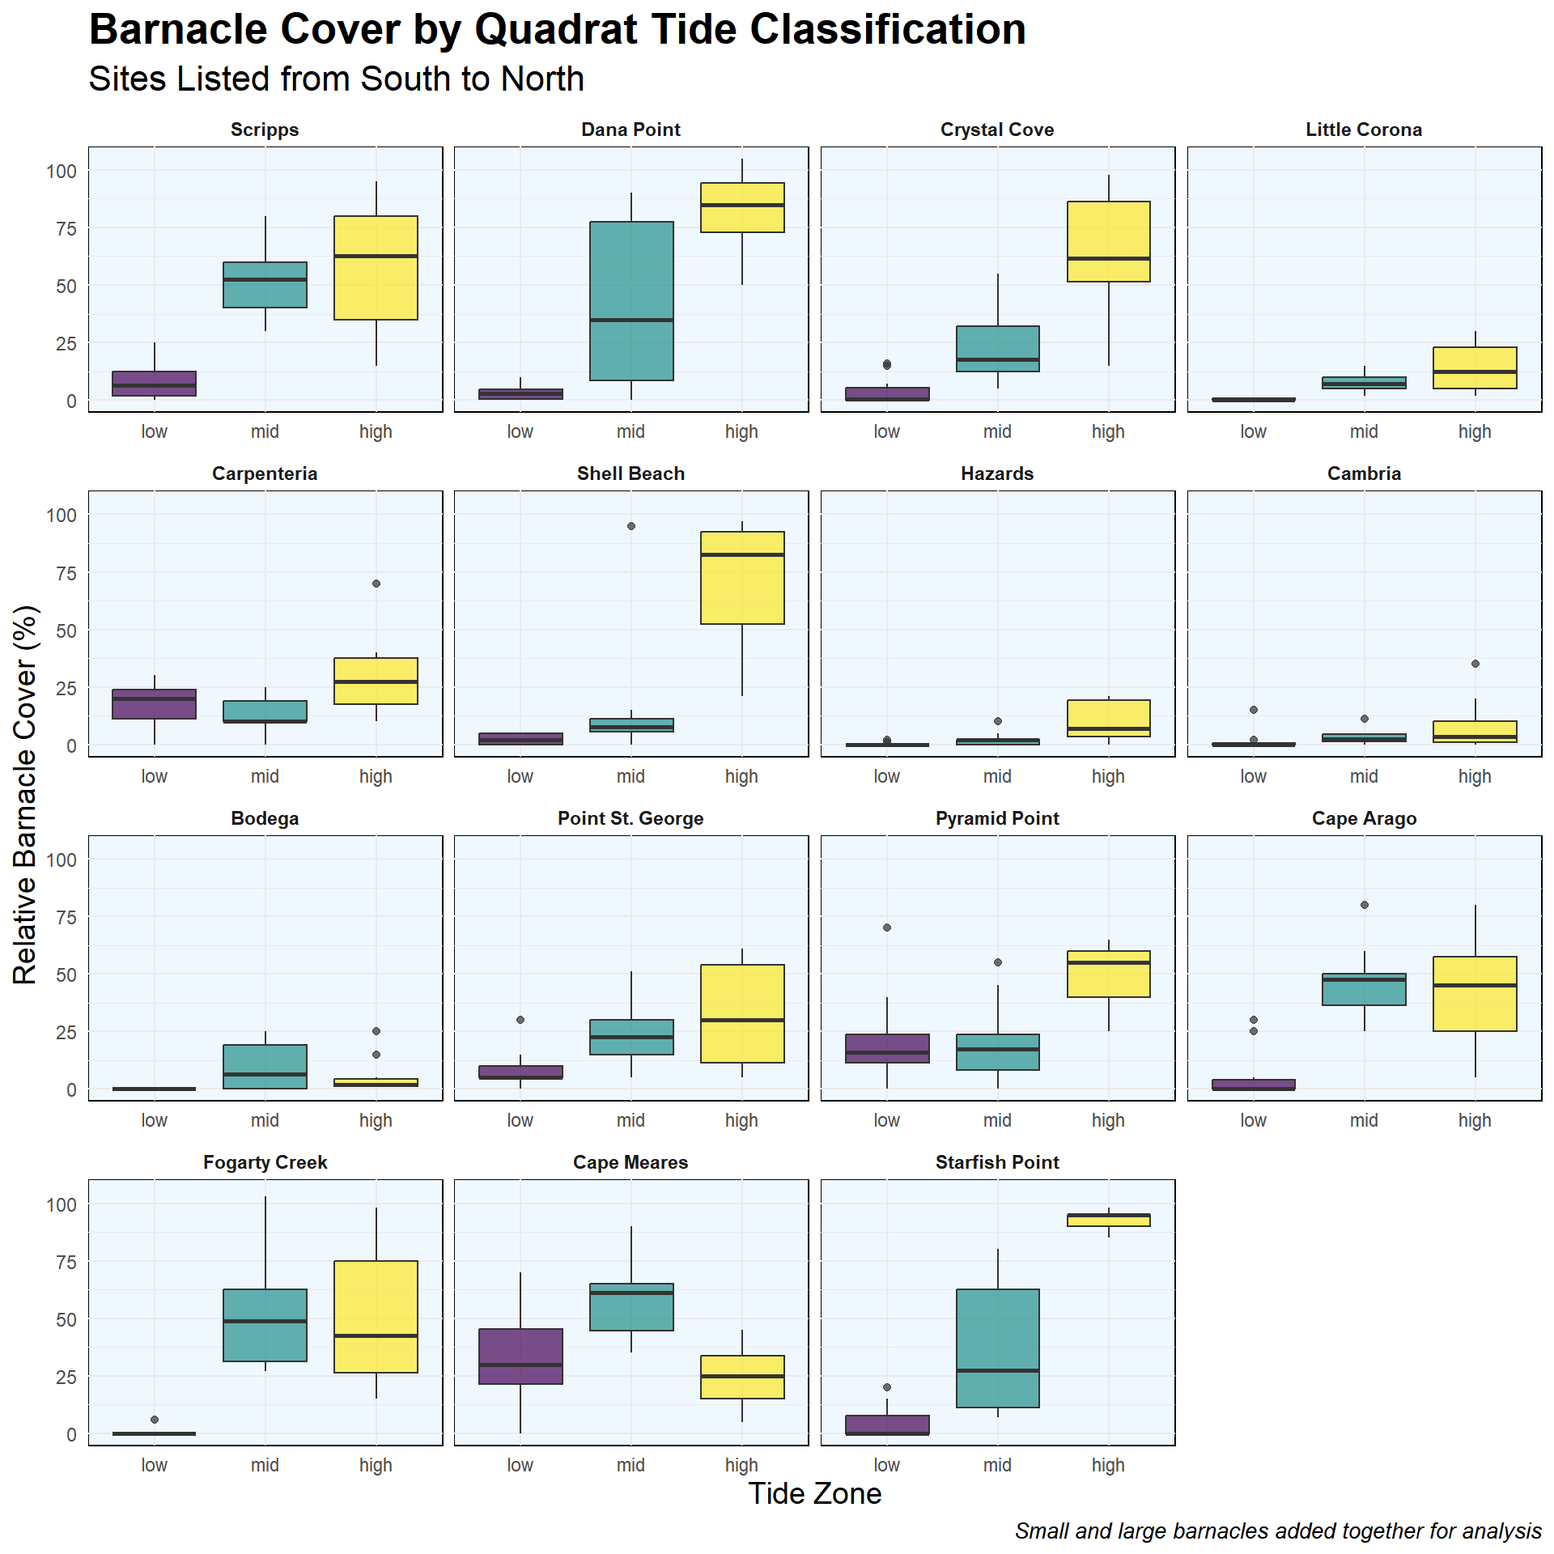
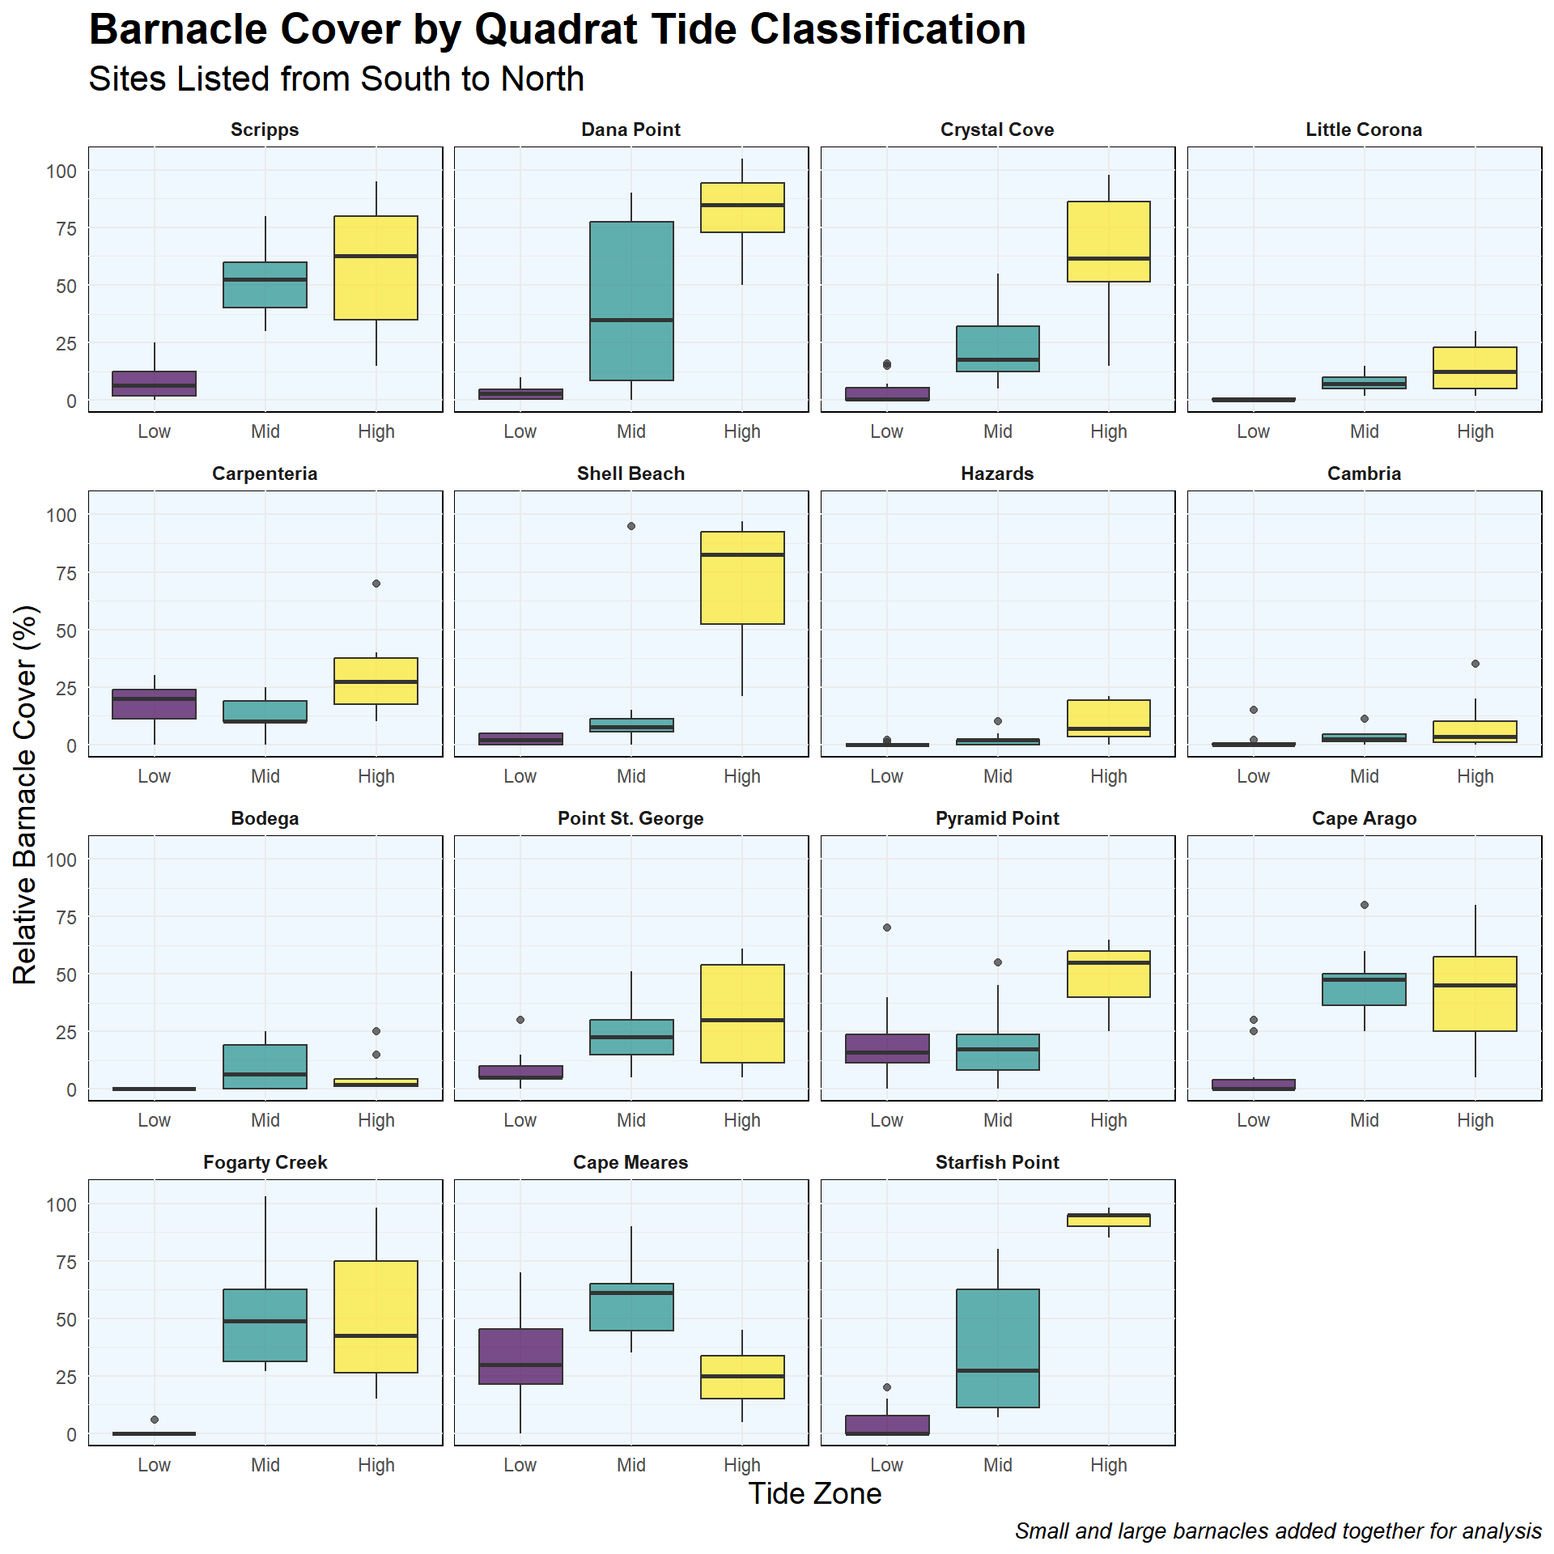
slight edit

diff --git a/Week_09/Scripts/Factors Homework.html b/Week_09/Scripts/Factors Homework.html
@@ -180,18 +180,23 @@ pre > code.sourceCode > span > a:first-child::before { text-decoration: underlin
 <span id="cb4-5"><a href="#cb4-5" aria-hidden="true" tabindex="-1"></a>  <span class="fu">geom_boxplot</span>(<span class="at">alpha =</span> <span class="fl">0.7</span>, <span class="at">show.legend =</span> <span class="cn">FALSE</span>)<span class="sc">+</span></span>
 <span id="cb4-6"><a href="#cb4-6" aria-hidden="true" tabindex="-1"></a>  <span class="co">#plot looks better with x-labels for all plots</span></span>
 <span id="cb4-7"><a href="#cb4-7" aria-hidden="true" tabindex="-1"></a>  <span class="fu">facet_wrap</span>(<span class="sc">~</span> Site,<span class="at">axes =</span> <span class="st">"all_x"</span>)<span class="sc">+</span></span>
-<span id="cb4-8"><a href="#cb4-8" aria-hidden="true" tabindex="-1"></a>  <span class="fu">scale_fill_viridis_d</span>()<span class="sc">+</span></span>
-<span id="cb4-9"><a href="#cb4-9" aria-hidden="true" tabindex="-1"></a>  <span class="fu">theme_minimal</span>()<span class="sc">+</span></span>
-<span id="cb4-10"><a href="#cb4-10" aria-hidden="true" tabindex="-1"></a>  <span class="fu">theme</span>(<span class="at">strip.text =</span> <span class="fu">element_text</span>(<span class="at">face =</span> <span class="st">"bold"</span>),</span>
-<span id="cb4-11"><a href="#cb4-11" aria-hidden="true" tabindex="-1"></a>        <span class="at">plot.title =</span> <span class="fu">element_text</span>(<span class="at">size =</span> <span class="dv">20</span>,</span>
-<span id="cb4-12"><a href="#cb4-12" aria-hidden="true" tabindex="-1"></a>                                  <span class="at">face =</span> <span class="st">"bold"</span>),</span>
-<span id="cb4-13"><a href="#cb4-13" aria-hidden="true" tabindex="-1"></a>        <span class="at">plot.subtitle =</span> <span class="fu">element_text</span>(<span class="at">size =</span> <span class="dv">16</span>),</span>
-<span id="cb4-14"><a href="#cb4-14" aria-hidden="true" tabindex="-1"></a>        <span class="at">axis.title =</span> <span class="fu">element_text</span>(<span class="at">size =</span> <span class="dv">14</span>),</span>
-<span id="cb4-15"><a href="#cb4-15" aria-hidden="true" tabindex="-1"></a>        <span class="at">panel.background =</span> <span class="fu">element_rect</span>(<span class="at">fill =</span> <span class="st">"aliceblue"</span>))<span class="sc">+</span></span>
-<span id="cb4-16"><a href="#cb4-16" aria-hidden="true" tabindex="-1"></a>  <span class="fu">labs</span>(<span class="at">title =</span> <span class="st">"Algae Cover by Quadrat Tide Classification"</span>,</span>
-<span id="cb4-17"><a href="#cb4-17" aria-hidden="true" tabindex="-1"></a>       <span class="at">subtitle =</span> <span class="st">"Sites Listed from South to North"</span>,</span>
-<span id="cb4-18"><a href="#cb4-18" aria-hidden="true" tabindex="-1"></a>       <span class="at">x =</span> <span class="st">"Tide Zone"</span>,</span>
-<span id="cb4-19"><a href="#cb4-19" aria-hidden="true" tabindex="-1"></a>       <span class="at">y =</span> <span class="st">"Relative Algae Cover (%)"</span>)</span></code></pre></div><button title="Copy to Clipboard" class="code-copy-button"><i class="bi"></i></button></div>
+<span id="cb4-8"><a href="#cb4-8" aria-hidden="true" tabindex="-1"></a>  <span class="co">#colorblind visual scheme</span></span>
+<span id="cb4-9"><a href="#cb4-9" aria-hidden="true" tabindex="-1"></a>  <span class="fu">scale_fill_viridis_d</span>()<span class="sc">+</span></span>
+<span id="cb4-10"><a href="#cb4-10" aria-hidden="true" tabindex="-1"></a>  <span class="co">#make x-labels upper case</span></span>
+<span id="cb4-11"><a href="#cb4-11" aria-hidden="true" tabindex="-1"></a>  <span class="fu">scale_x_discrete</span>(<span class="at">labels =</span> <span class="fu">c</span>(<span class="st">"Low"</span>,</span>
+<span id="cb4-12"><a href="#cb4-12" aria-hidden="true" tabindex="-1"></a>                              <span class="st">"Mid"</span>,</span>
+<span id="cb4-13"><a href="#cb4-13" aria-hidden="true" tabindex="-1"></a>                              <span class="st">"High"</span>))<span class="sc">+</span></span>
+<span id="cb4-14"><a href="#cb4-14" aria-hidden="true" tabindex="-1"></a>  <span class="fu">theme_minimal</span>()<span class="sc">+</span></span>
+<span id="cb4-15"><a href="#cb4-15" aria-hidden="true" tabindex="-1"></a>  <span class="fu">theme</span>(<span class="at">strip.text =</span> <span class="fu">element_text</span>(<span class="at">face =</span> <span class="st">"bold"</span>),</span>
+<span id="cb4-16"><a href="#cb4-16" aria-hidden="true" tabindex="-1"></a>        <span class="at">plot.title =</span> <span class="fu">element_text</span>(<span class="at">size =</span> <span class="dv">20</span>,</span>
+<span id="cb4-17"><a href="#cb4-17" aria-hidden="true" tabindex="-1"></a>                                  <span class="at">face =</span> <span class="st">"bold"</span>),</span>
+<span id="cb4-18"><a href="#cb4-18" aria-hidden="true" tabindex="-1"></a>        <span class="at">plot.subtitle =</span> <span class="fu">element_text</span>(<span class="at">size =</span> <span class="dv">16</span>),</span>
+<span id="cb4-19"><a href="#cb4-19" aria-hidden="true" tabindex="-1"></a>        <span class="at">axis.title =</span> <span class="fu">element_text</span>(<span class="at">size =</span> <span class="dv">14</span>),</span>
+<span id="cb4-20"><a href="#cb4-20" aria-hidden="true" tabindex="-1"></a>        <span class="at">panel.background =</span> <span class="fu">element_rect</span>(<span class="at">fill =</span> <span class="st">"aliceblue"</span>))<span class="sc">+</span></span>
+<span id="cb4-21"><a href="#cb4-21" aria-hidden="true" tabindex="-1"></a>  <span class="fu">labs</span>(<span class="at">title =</span> <span class="st">"Algae Cover by Quadrat Tide Classification"</span>,</span>
+<span id="cb4-22"><a href="#cb4-22" aria-hidden="true" tabindex="-1"></a>       <span class="at">subtitle =</span> <span class="st">"Sites Listed from South to North"</span>,</span>
+<span id="cb4-23"><a href="#cb4-23" aria-hidden="true" tabindex="-1"></a>       <span class="at">x =</span> <span class="st">"Tide Zone"</span>,</span>
+<span id="cb4-24"><a href="#cb4-24" aria-hidden="true" tabindex="-1"></a>       <span class="at">y =</span> <span class="st">"Relative Algae Cover (%)"</span>)</span></code></pre></div><button title="Copy to Clipboard" class="code-copy-button"><i class="bi"></i></button></div>
 </details>
 <div class="cell-output-display">
 <div class="quarto-figure quarto-figure-center">
@@ -219,16 +224,19 @@ pre > code.sourceCode > span > a:first-child::before { text-decoration: underlin
 <span id="cb6-6"><a href="#cb6-6" aria-hidden="true" tabindex="-1"></a>  <span class="fu">facet_wrap</span>(<span class="sc">~</span> Site,<span class="at">axes =</span> <span class="st">"all_x"</span>)<span class="sc">+</span></span>
 <span id="cb6-7"><a href="#cb6-7" aria-hidden="true" tabindex="-1"></a>  <span class="fu">scale_fill_viridis_d</span>()<span class="sc">+</span></span>
 <span id="cb6-8"><a href="#cb6-8" aria-hidden="true" tabindex="-1"></a>  <span class="fu">theme_minimal</span>()<span class="sc">+</span></span>
-<span id="cb6-9"><a href="#cb6-9" aria-hidden="true" tabindex="-1"></a>  <span class="fu">theme</span>(<span class="at">strip.text =</span> <span class="fu">element_text</span>(<span class="at">face =</span> <span class="st">"bold"</span>),</span>
-<span id="cb6-10"><a href="#cb6-10" aria-hidden="true" tabindex="-1"></a>        <span class="at">plot.title =</span> <span class="fu">element_text</span>(<span class="at">size =</span> <span class="dv">20</span>,</span>
-<span id="cb6-11"><a href="#cb6-11" aria-hidden="true" tabindex="-1"></a>                                  <span class="at">face =</span> <span class="st">"bold"</span>),</span>
-<span id="cb6-12"><a href="#cb6-12" aria-hidden="true" tabindex="-1"></a>        <span class="at">plot.subtitle =</span> <span class="fu">element_text</span>(<span class="at">size =</span> <span class="dv">16</span>),</span>
-<span id="cb6-13"><a href="#cb6-13" aria-hidden="true" tabindex="-1"></a>        <span class="at">axis.title =</span> <span class="fu">element_text</span>(<span class="at">size =</span> <span class="dv">14</span>),</span>
-<span id="cb6-14"><a href="#cb6-14" aria-hidden="true" tabindex="-1"></a>        <span class="at">panel.background =</span> <span class="fu">element_rect</span>(<span class="at">fill =</span> <span class="st">"aliceblue"</span>))<span class="sc">+</span></span>
-<span id="cb6-15"><a href="#cb6-15" aria-hidden="true" tabindex="-1"></a>  <span class="fu">labs</span>(<span class="at">title =</span> <span class="st">"Rock Cover by Quadrat Tide Classification"</span>,</span>
-<span id="cb6-16"><a href="#cb6-16" aria-hidden="true" tabindex="-1"></a>       <span class="at">subtitle =</span> <span class="st">"Sites Listed from South to North"</span>,</span>
-<span id="cb6-17"><a href="#cb6-17" aria-hidden="true" tabindex="-1"></a>       <span class="at">x =</span> <span class="st">"Tide Zone"</span>,</span>
-<span id="cb6-18"><a href="#cb6-18" aria-hidden="true" tabindex="-1"></a>       <span class="at">y =</span> <span class="st">"Relative Rock Cover (%)"</span>)</span></code></pre></div><button title="Copy to Clipboard" class="code-copy-button"><i class="bi"></i></button></div>
+<span id="cb6-9"><a href="#cb6-9" aria-hidden="true" tabindex="-1"></a>    <span class="fu">scale_x_discrete</span>(<span class="at">labels =</span> <span class="fu">c</span>(<span class="st">"Low"</span>,</span>
+<span id="cb6-10"><a href="#cb6-10" aria-hidden="true" tabindex="-1"></a>                     <span class="st">"Mid"</span>,</span>
+<span id="cb6-11"><a href="#cb6-11" aria-hidden="true" tabindex="-1"></a>                     <span class="st">"High"</span>))<span class="sc">+</span></span>
+<span id="cb6-12"><a href="#cb6-12" aria-hidden="true" tabindex="-1"></a>  <span class="fu">theme</span>(<span class="at">strip.text =</span> <span class="fu">element_text</span>(<span class="at">face =</span> <span class="st">"bold"</span>),</span>
+<span id="cb6-13"><a href="#cb6-13" aria-hidden="true" tabindex="-1"></a>        <span class="at">plot.title =</span> <span class="fu">element_text</span>(<span class="at">size =</span> <span class="dv">20</span>,</span>
+<span id="cb6-14"><a href="#cb6-14" aria-hidden="true" tabindex="-1"></a>                                  <span class="at">face =</span> <span class="st">"bold"</span>),</span>
+<span id="cb6-15"><a href="#cb6-15" aria-hidden="true" tabindex="-1"></a>        <span class="at">plot.subtitle =</span> <span class="fu">element_text</span>(<span class="at">size =</span> <span class="dv">16</span>),</span>
+<span id="cb6-16"><a href="#cb6-16" aria-hidden="true" tabindex="-1"></a>        <span class="at">axis.title =</span> <span class="fu">element_text</span>(<span class="at">size =</span> <span class="dv">14</span>),</span>
+<span id="cb6-17"><a href="#cb6-17" aria-hidden="true" tabindex="-1"></a>        <span class="at">panel.background =</span> <span class="fu">element_rect</span>(<span class="at">fill =</span> <span class="st">"aliceblue"</span>))<span class="sc">+</span></span>
+<span id="cb6-18"><a href="#cb6-18" aria-hidden="true" tabindex="-1"></a>  <span class="fu">labs</span>(<span class="at">title =</span> <span class="st">"Rock Cover by Quadrat Tide Classification"</span>,</span>
+<span id="cb6-19"><a href="#cb6-19" aria-hidden="true" tabindex="-1"></a>       <span class="at">subtitle =</span> <span class="st">"Sites Listed from South to North"</span>,</span>
+<span id="cb6-20"><a href="#cb6-20" aria-hidden="true" tabindex="-1"></a>       <span class="at">x =</span> <span class="st">"Tide Zone"</span>,</span>
+<span id="cb6-21"><a href="#cb6-21" aria-hidden="true" tabindex="-1"></a>       <span class="at">y =</span> <span class="st">"Relative Rock Cover (%)"</span>)</span></code></pre></div><button title="Copy to Clipboard" class="code-copy-button"><i class="bi"></i></button></div>
 </details>
 <div class="cell-output-display">
 <div class="quarto-figure quarto-figure-center">
@@ -258,20 +266,23 @@ pre > code.sourceCode > span > a:first-child::before { text-decoration: underlin
 <span id="cb8-9"><a href="#cb8-9" aria-hidden="true" tabindex="-1"></a>  <span class="fu">geom_boxplot</span>(<span class="at">alpha =</span> <span class="fl">0.7</span>, <span class="at">show.legend =</span> <span class="cn">FALSE</span>)<span class="sc">+</span></span>
 <span id="cb8-10"><a href="#cb8-10" aria-hidden="true" tabindex="-1"></a>  <span class="fu">facet_wrap</span>(<span class="sc">~</span> Site,<span class="at">axes =</span> <span class="st">"all_x"</span>)<span class="sc">+</span></span>
 <span id="cb8-11"><a href="#cb8-11" aria-hidden="true" tabindex="-1"></a>  <span class="fu">scale_fill_viridis_d</span>()<span class="sc">+</span></span>
-<span id="cb8-12"><a href="#cb8-12" aria-hidden="true" tabindex="-1"></a>  <span class="fu">theme_minimal</span>()<span class="sc">+</span></span>
-<span id="cb8-13"><a href="#cb8-13" aria-hidden="true" tabindex="-1"></a>  <span class="fu">theme</span>(<span class="at">strip.text =</span> <span class="fu">element_text</span>(<span class="at">face =</span> <span class="st">"bold"</span>),</span>
-<span id="cb8-14"><a href="#cb8-14" aria-hidden="true" tabindex="-1"></a>        <span class="at">plot.title =</span> <span class="fu">element_text</span>(<span class="at">size =</span> <span class="dv">20</span>,</span>
-<span id="cb8-15"><a href="#cb8-15" aria-hidden="true" tabindex="-1"></a>                                  <span class="at">face =</span> <span class="st">"bold"</span>),</span>
-<span id="cb8-16"><a href="#cb8-16" aria-hidden="true" tabindex="-1"></a>        <span class="at">plot.subtitle =</span> <span class="fu">element_text</span>(<span class="at">size =</span> <span class="dv">16</span>),</span>
-<span id="cb8-17"><a href="#cb8-17" aria-hidden="true" tabindex="-1"></a>        <span class="at">axis.title =</span> <span class="fu">element_text</span>(<span class="at">size =</span> <span class="dv">14</span>),</span>
-<span id="cb8-18"><a href="#cb8-18" aria-hidden="true" tabindex="-1"></a>        <span class="at">plot.caption =</span> <span class="fu">element_text</span>(<span class="at">size =</span> <span class="dv">10</span>,</span>
-<span id="cb8-19"><a href="#cb8-19" aria-hidden="true" tabindex="-1"></a>                                    <span class="at">face =</span> <span class="st">"italic"</span>),</span>
-<span id="cb8-20"><a href="#cb8-20" aria-hidden="true" tabindex="-1"></a>        <span class="at">panel.background =</span> <span class="fu">element_rect</span>(<span class="at">fill =</span> <span class="st">"aliceblue"</span>))<span class="sc">+</span></span>
-<span id="cb8-21"><a href="#cb8-21" aria-hidden="true" tabindex="-1"></a>  <span class="fu">labs</span>(<span class="at">title =</span> <span class="st">"Barnacle Cover by Quadrat Tide Classification"</span>,</span>
-<span id="cb8-22"><a href="#cb8-22" aria-hidden="true" tabindex="-1"></a>       <span class="at">subtitle =</span> <span class="st">"Sites Listed from South to North"</span>,</span>
-<span id="cb8-23"><a href="#cb8-23" aria-hidden="true" tabindex="-1"></a>       <span class="at">x =</span> <span class="st">"Tide Zone"</span>,</span>
-<span id="cb8-24"><a href="#cb8-24" aria-hidden="true" tabindex="-1"></a>       <span class="at">y =</span> <span class="st">"Relative Barnacle Cover (%)"</span>,</span>
-<span id="cb8-25"><a href="#cb8-25" aria-hidden="true" tabindex="-1"></a>       <span class="at">caption =</span> <span class="st">"Small and large barnacles added together for analysis"</span>)</span></code></pre></div><button title="Copy to Clipboard" class="code-copy-button"><i class="bi"></i></button></div>
+<span id="cb8-12"><a href="#cb8-12" aria-hidden="true" tabindex="-1"></a>  <span class="fu">scale_x_discrete</span>(<span class="at">labels =</span> <span class="fu">c</span>(<span class="st">"Low"</span>,</span>
+<span id="cb8-13"><a href="#cb8-13" aria-hidden="true" tabindex="-1"></a>                              <span class="st">"Mid"</span>,</span>
+<span id="cb8-14"><a href="#cb8-14" aria-hidden="true" tabindex="-1"></a>                              <span class="st">"High"</span>))<span class="sc">+</span></span>
+<span id="cb8-15"><a href="#cb8-15" aria-hidden="true" tabindex="-1"></a>  <span class="fu">theme_minimal</span>()<span class="sc">+</span></span>
+<span id="cb8-16"><a href="#cb8-16" aria-hidden="true" tabindex="-1"></a>  <span class="fu">theme</span>(<span class="at">strip.text =</span> <span class="fu">element_text</span>(<span class="at">face =</span> <span class="st">"bold"</span>),</span>
+<span id="cb8-17"><a href="#cb8-17" aria-hidden="true" tabindex="-1"></a>        <span class="at">plot.title =</span> <span class="fu">element_text</span>(<span class="at">size =</span> <span class="dv">20</span>,</span>
+<span id="cb8-18"><a href="#cb8-18" aria-hidden="true" tabindex="-1"></a>                                  <span class="at">face =</span> <span class="st">"bold"</span>),</span>
+<span id="cb8-19"><a href="#cb8-19" aria-hidden="true" tabindex="-1"></a>        <span class="at">plot.subtitle =</span> <span class="fu">element_text</span>(<span class="at">size =</span> <span class="dv">16</span>),</span>
+<span id="cb8-20"><a href="#cb8-20" aria-hidden="true" tabindex="-1"></a>        <span class="at">axis.title =</span> <span class="fu">element_text</span>(<span class="at">size =</span> <span class="dv">14</span>),</span>
+<span id="cb8-21"><a href="#cb8-21" aria-hidden="true" tabindex="-1"></a>        <span class="at">plot.caption =</span> <span class="fu">element_text</span>(<span class="at">size =</span> <span class="dv">10</span>,</span>
+<span id="cb8-22"><a href="#cb8-22" aria-hidden="true" tabindex="-1"></a>                                    <span class="at">face =</span> <span class="st">"italic"</span>),</span>
+<span id="cb8-23"><a href="#cb8-23" aria-hidden="true" tabindex="-1"></a>        <span class="at">panel.background =</span> <span class="fu">element_rect</span>(<span class="at">fill =</span> <span class="st">"aliceblue"</span>))<span class="sc">+</span></span>
+<span id="cb8-24"><a href="#cb8-24" aria-hidden="true" tabindex="-1"></a>  <span class="fu">labs</span>(<span class="at">title =</span> <span class="st">"Barnacle Cover by Quadrat Tide Classification"</span>,</span>
+<span id="cb8-25"><a href="#cb8-25" aria-hidden="true" tabindex="-1"></a>       <span class="at">subtitle =</span> <span class="st">"Sites Listed from South to North"</span>,</span>
+<span id="cb8-26"><a href="#cb8-26" aria-hidden="true" tabindex="-1"></a>       <span class="at">x =</span> <span class="st">"Tide Zone"</span>,</span>
+<span id="cb8-27"><a href="#cb8-27" aria-hidden="true" tabindex="-1"></a>       <span class="at">y =</span> <span class="st">"Relative Barnacle Cover (%)"</span>,</span>
+<span id="cb8-28"><a href="#cb8-28" aria-hidden="true" tabindex="-1"></a>       <span class="at">caption =</span> <span class="st">"Small and large barnacles added together for analysis"</span>)</span></code></pre></div><button title="Copy to Clipboard" class="code-copy-button"><i class="bi"></i></button></div>
 </details>
 <div class="cell-output-display">
 <div class="quarto-figure quarto-figure-center">
